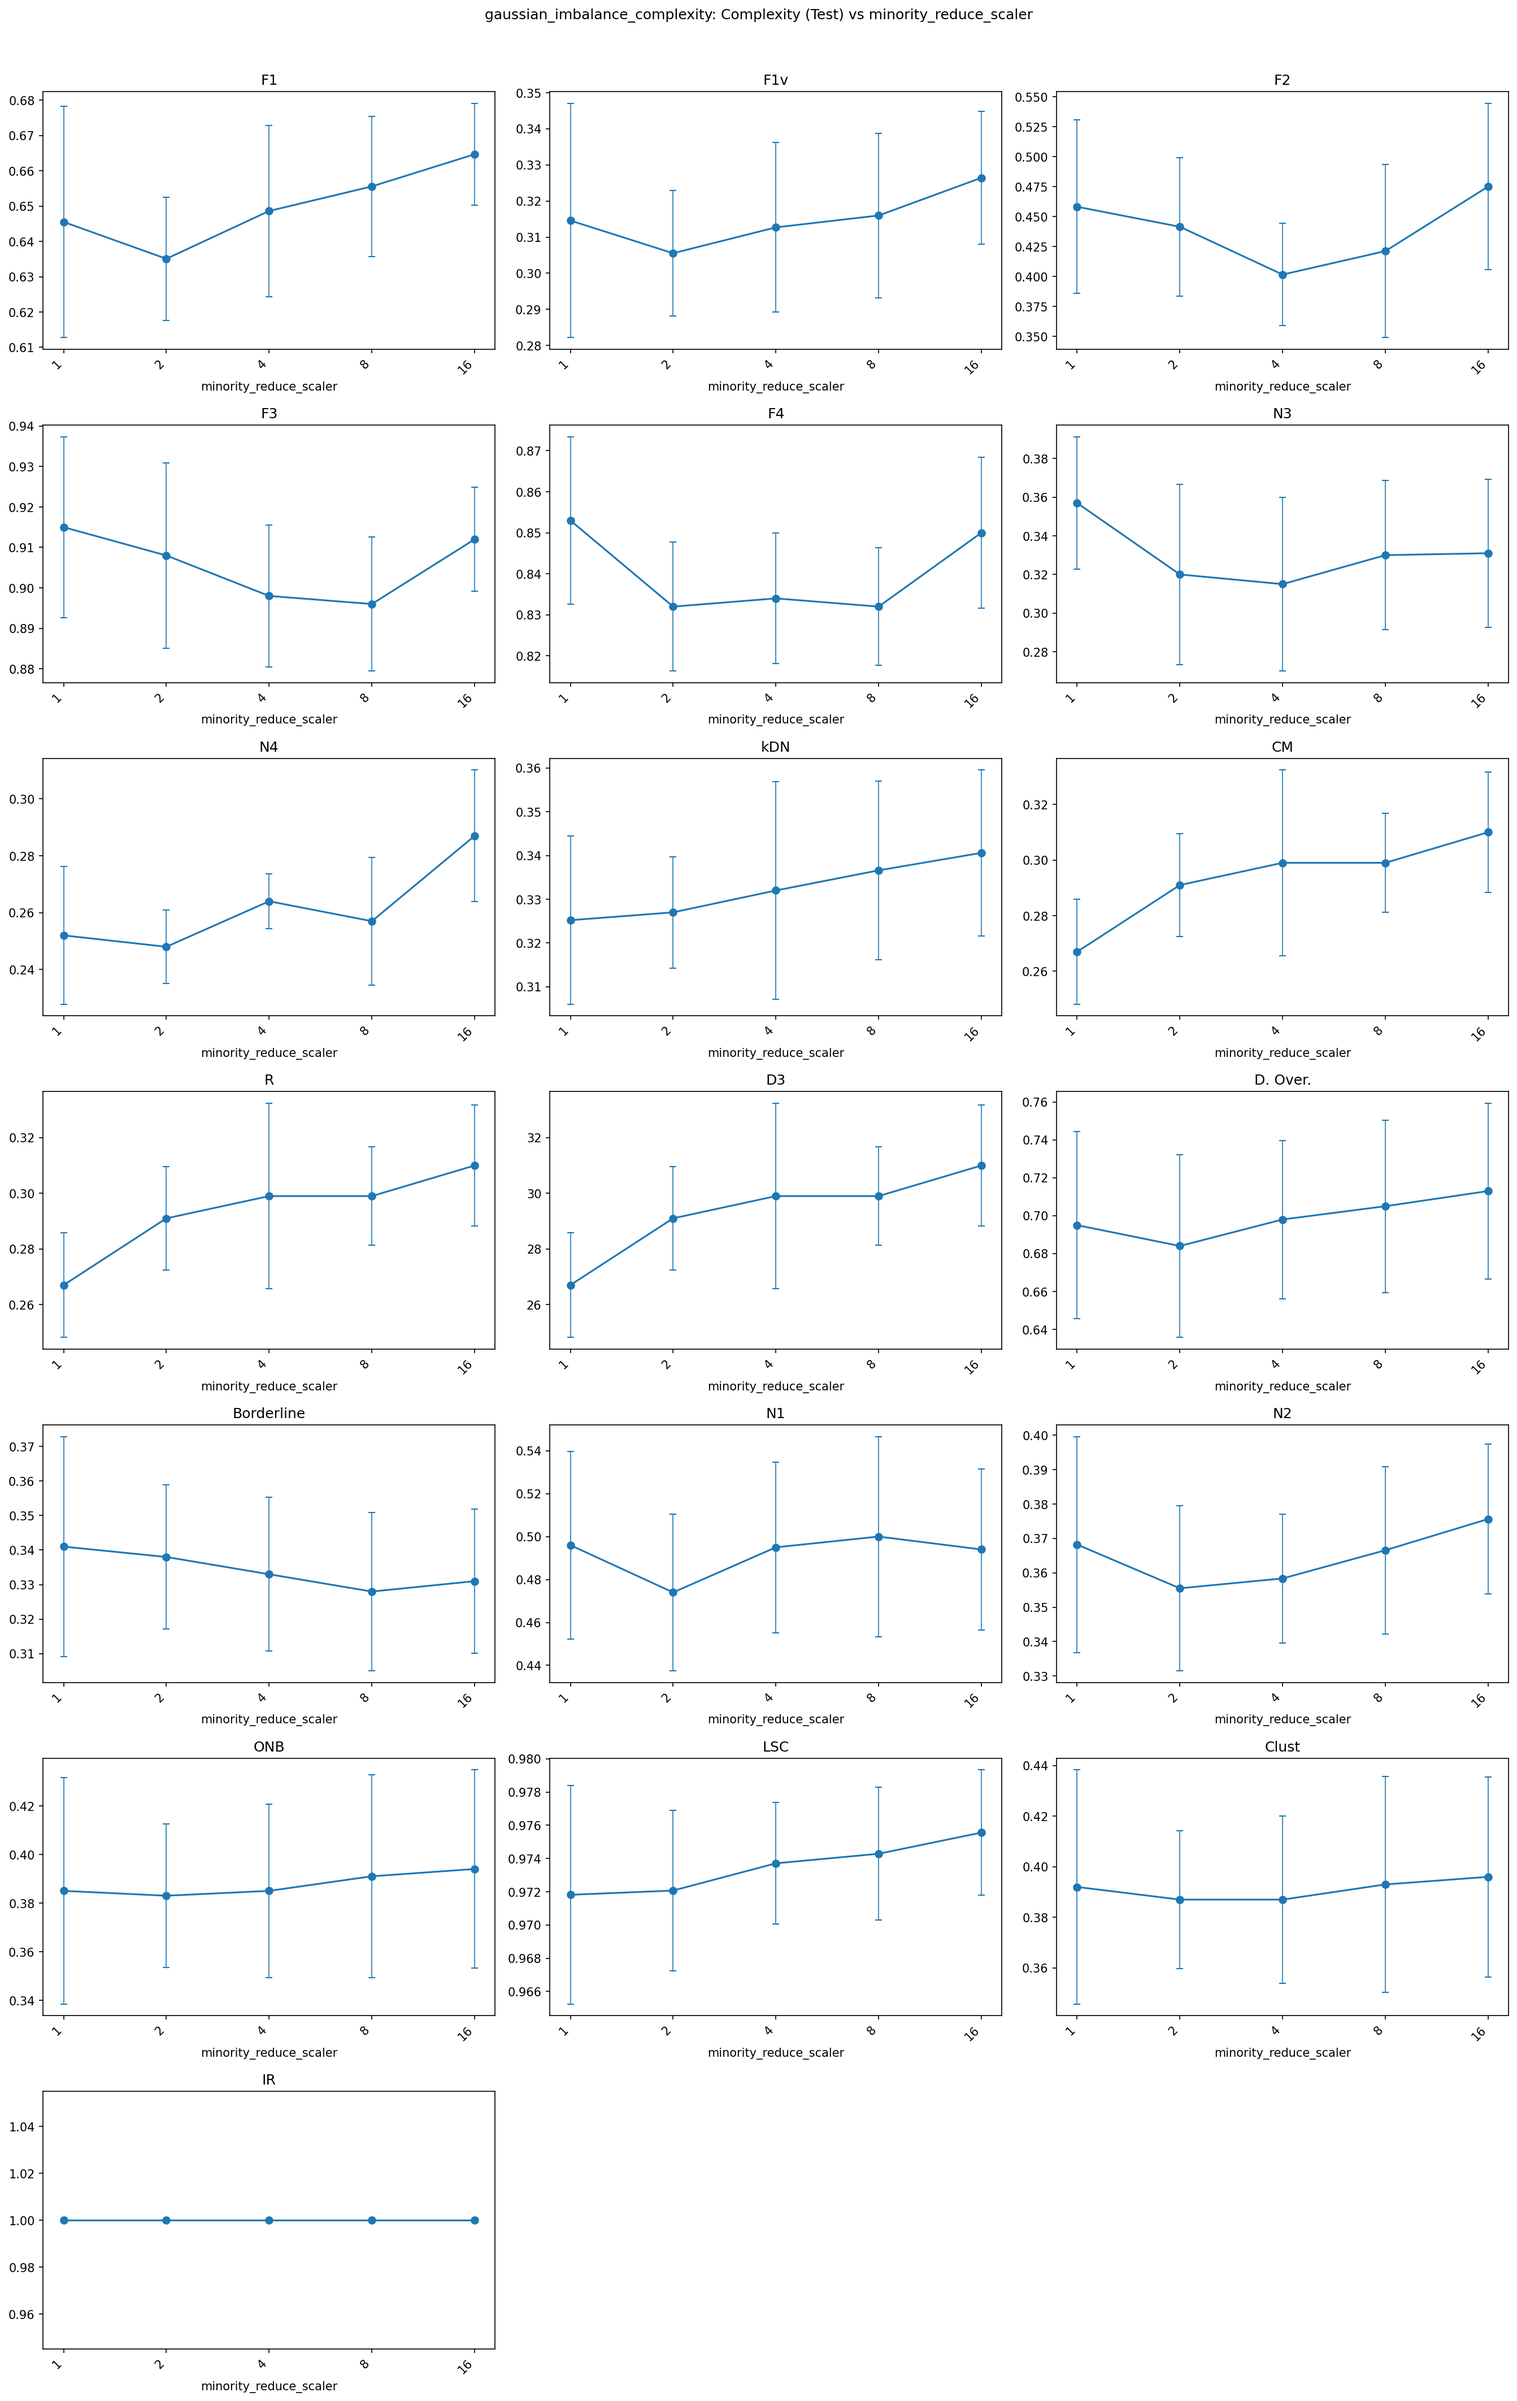
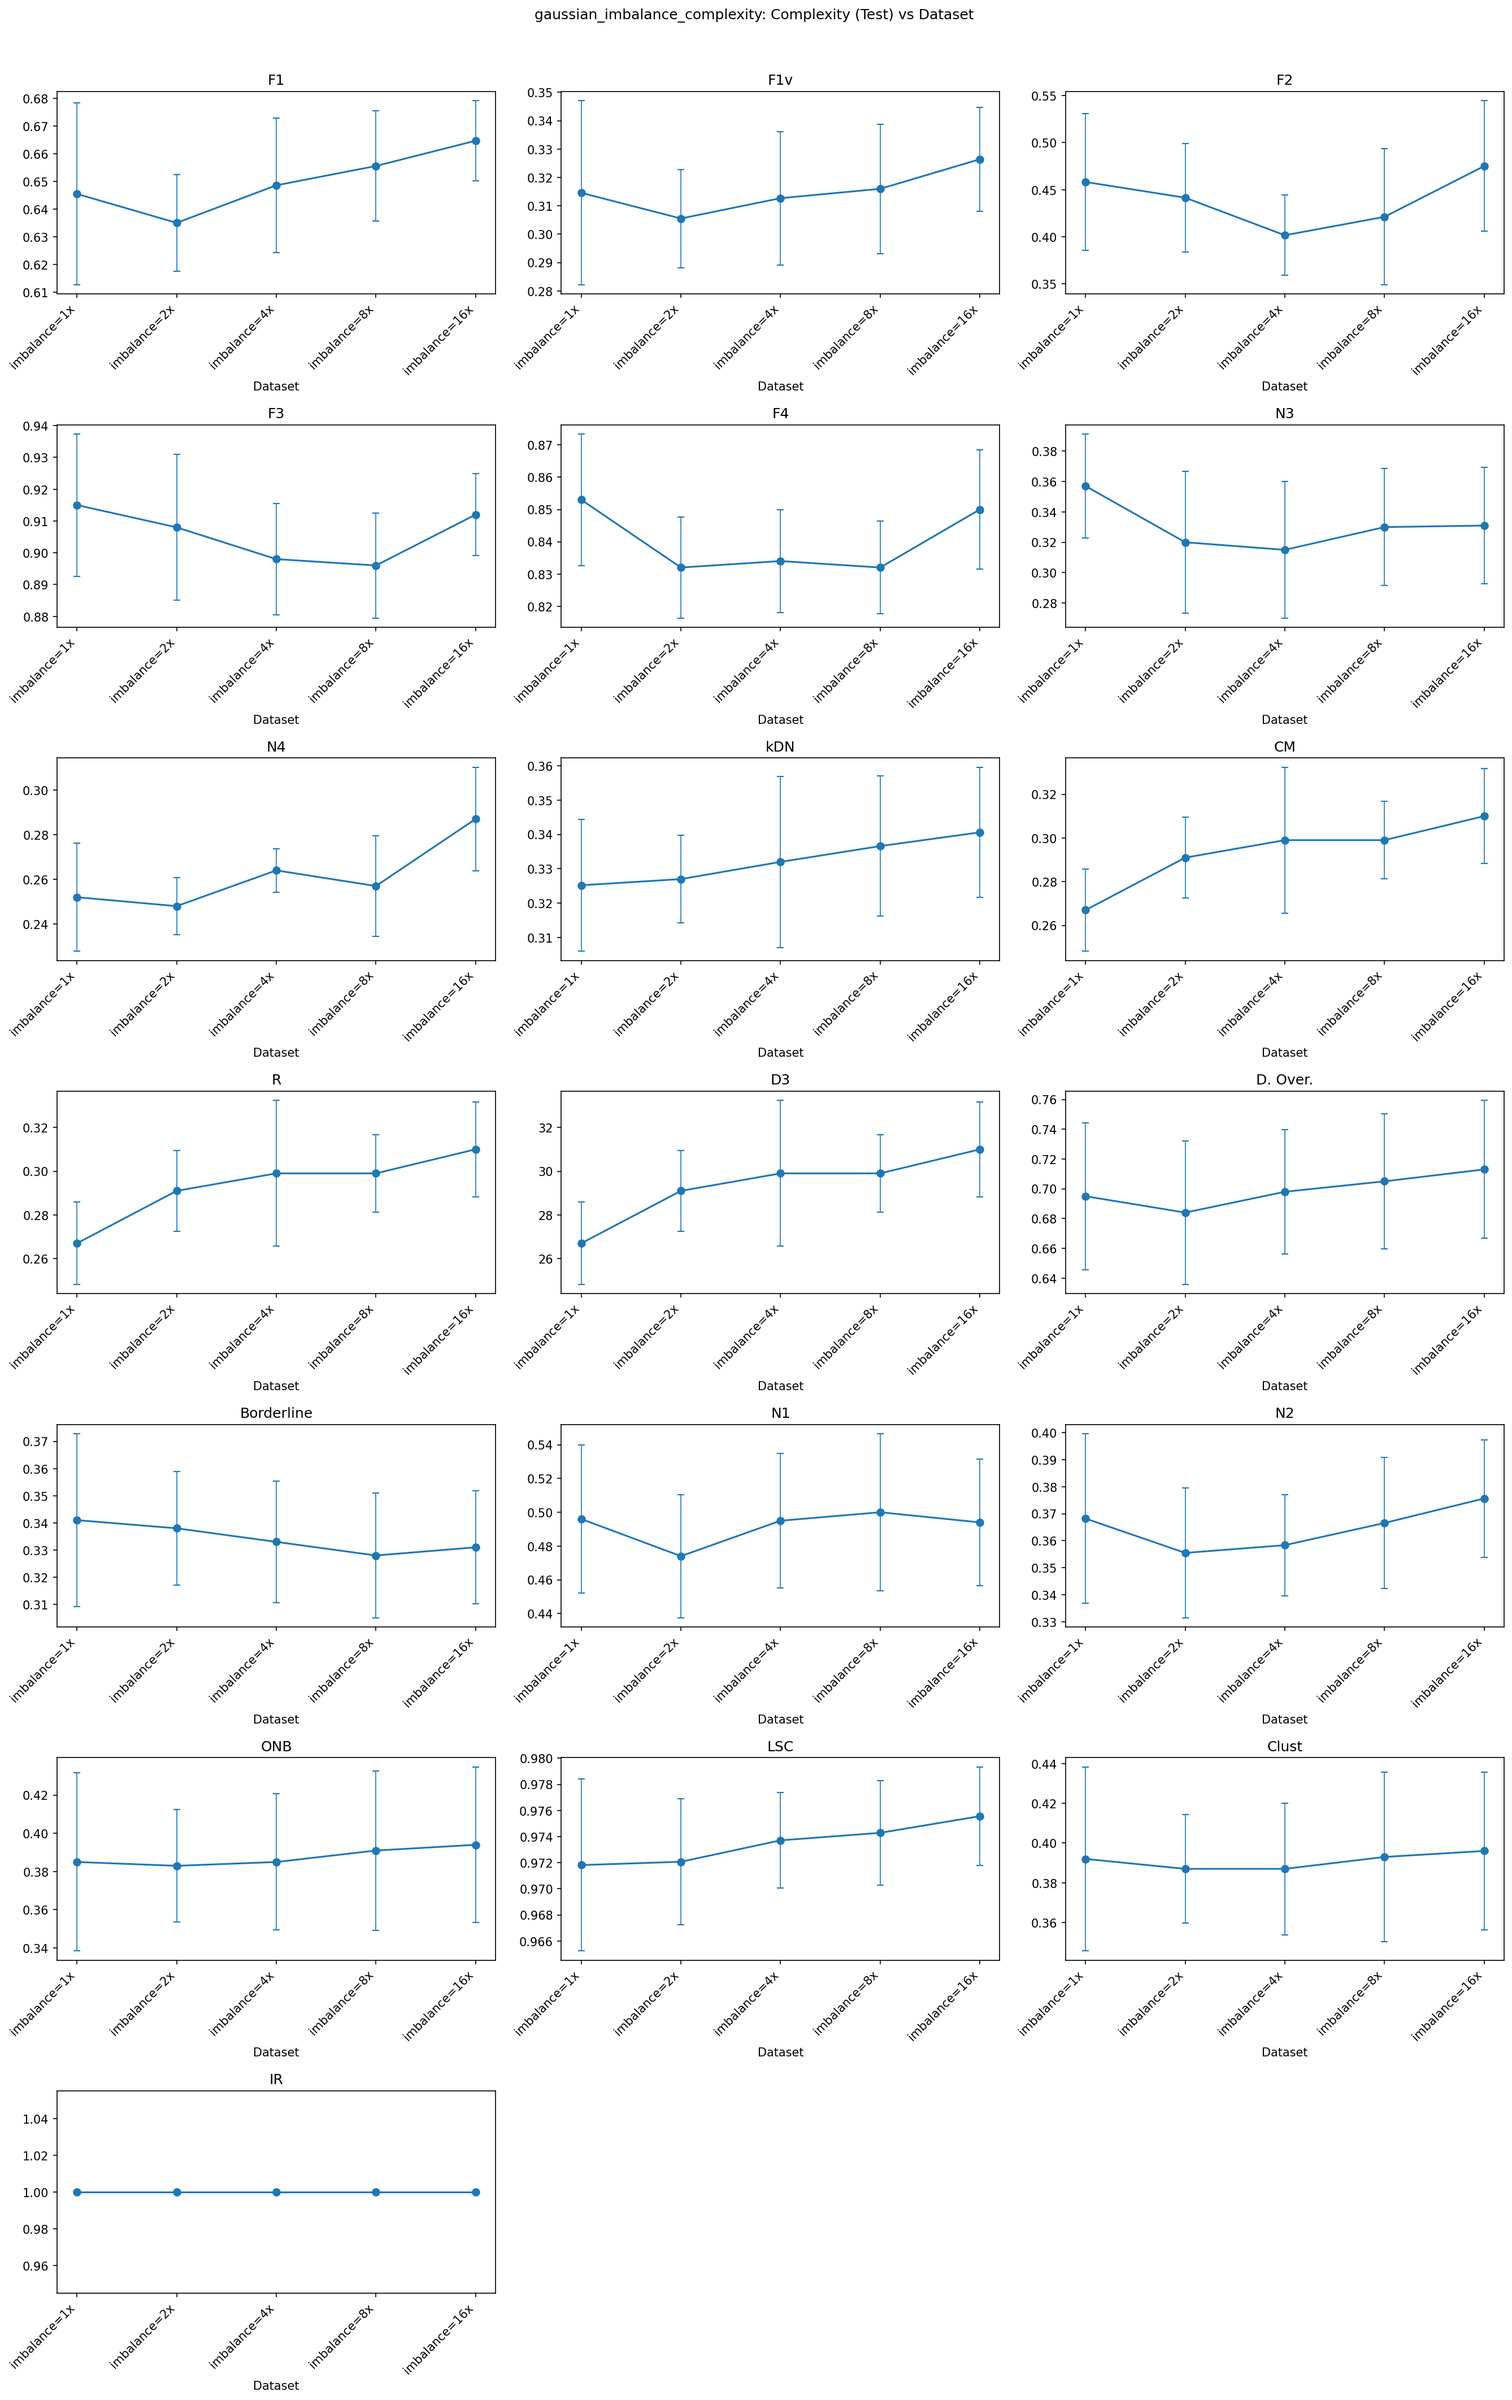
updated to new experiment format

diff --git a/data_complexity/experiments/pipeline/runs-complexity-vs-clfs/gaussian/complexity_only/guassian_imbalance_only_complexity.py b/data_complexity/experiments/pipeline/runs-complexity-vs-clfs/gaussian/complexity_only/guassian_imbalance_only_complexity.py
@@ -9,13 +9,10 @@ from data_complexity.experiments.pipeline import (
     DatasetSpec,
     ParameterSpec,
     RunMode,
+    datasets_from_sweep,
 )
 
-# Configure experiment
-config = ExperimentConfig(
-    dataset=DatasetSpec(
-        dataset_type="Gaussian",
-        fixed_params={
+fixed_params={
             "num_samples": 400,
             "train_size": 0.5,
             "class_separation": 1.0, 
@@ -23,18 +20,26 @@ config = ExperimentConfig(
             "spherical", 
             "cov_scale": 1.0,
             "equal_test": True, # Ensure test set is balanced for fair evaluation of imbalance effects
-            },
-    ),
-    vary_parameter=ParameterSpec(
-        name="minority_reduce_scaler",
-        values=[1, 2, 4, 8, 16],
-        label_format="imbalance={value}x",
-    ),
+            }
+datasets = []
+for imbalance_factor in [1, 2, 4, 8, 16]:
+    dataset_params = fixed_params.copy()
+    dataset_params["minority_reduce_scaler"] = imbalance_factor
+    datasets.append(DatasetSpec("Gaussian", dataset_params, label=f"imbalance={imbalance_factor}x"))
+
+# Configure experiment
+config = ExperimentConfig(
+    datasets=datasets,
+    # vary_parameter=ParameterSpec(
+    #     name="minority_reduce_scaler",
+    #     values=[1, 2, 4, 8, 16],
+    #     label_format="imbalance={value}x",
+    # ),
     name="gaussian_imbalance_complexity",
     run_mode=RunMode.COMPLEXITY_ONLY,
 )
 
 if __name__ == "__main__":
     exp = Experiment(config)
-    exp.run(n_jobs=-1)
+    exp.run(n_jobs=1)
     exp.save()

diff --git a/data_complexity/experiments/pipeline/complexity_vs_clfs.py b/data_complexity/experiments/pipeline/complexity_vs_clfs.py
@@ -638,7 +638,6 @@ class Experiment:
         for pt in plot_types:
             if pt == PlotType.CORRELATIONS:
                 if run_mode != RunMode.BOTH:
-                    import warnings
                     warnings.warn(
                         f"Skipping {pt.name} plot: requires both complexity and ML results "
                         f"(run_mode={run_mode.value})."
@@ -652,7 +651,6 @@ class Experiment:
 
             elif pt == PlotType.SUMMARY:
                 if run_mode != RunMode.BOTH:
-                    import warnings
                     warnings.warn(
                         f"Skipping {pt.name} plot: requires both complexity and ML results "
                         f"(run_mode={run_mode.value})."
@@ -669,7 +667,6 @@ class Experiment:
 
             elif pt == PlotType.HEATMAP:
                 if run_mode != RunMode.BOTH:
-                    import warnings
                     warnings.warn(
                         f"Skipping {pt.name} plot: requires both complexity and ML results "
                         f"(run_mode={run_mode.value})."
@@ -913,6 +910,7 @@ class Experiment:
         # Save dataset visualizations to datasets/ subfolder
         # Create dual plot: full dataset + train/test split
         for label, dataset in self.datasets.items():
+            print(f"Saving dataset visualization for: {label}")
             # Try to create train/test split plot
             # Some datasets may not support splitting (e.g., minority_reduce_scaler=1)
             try:
